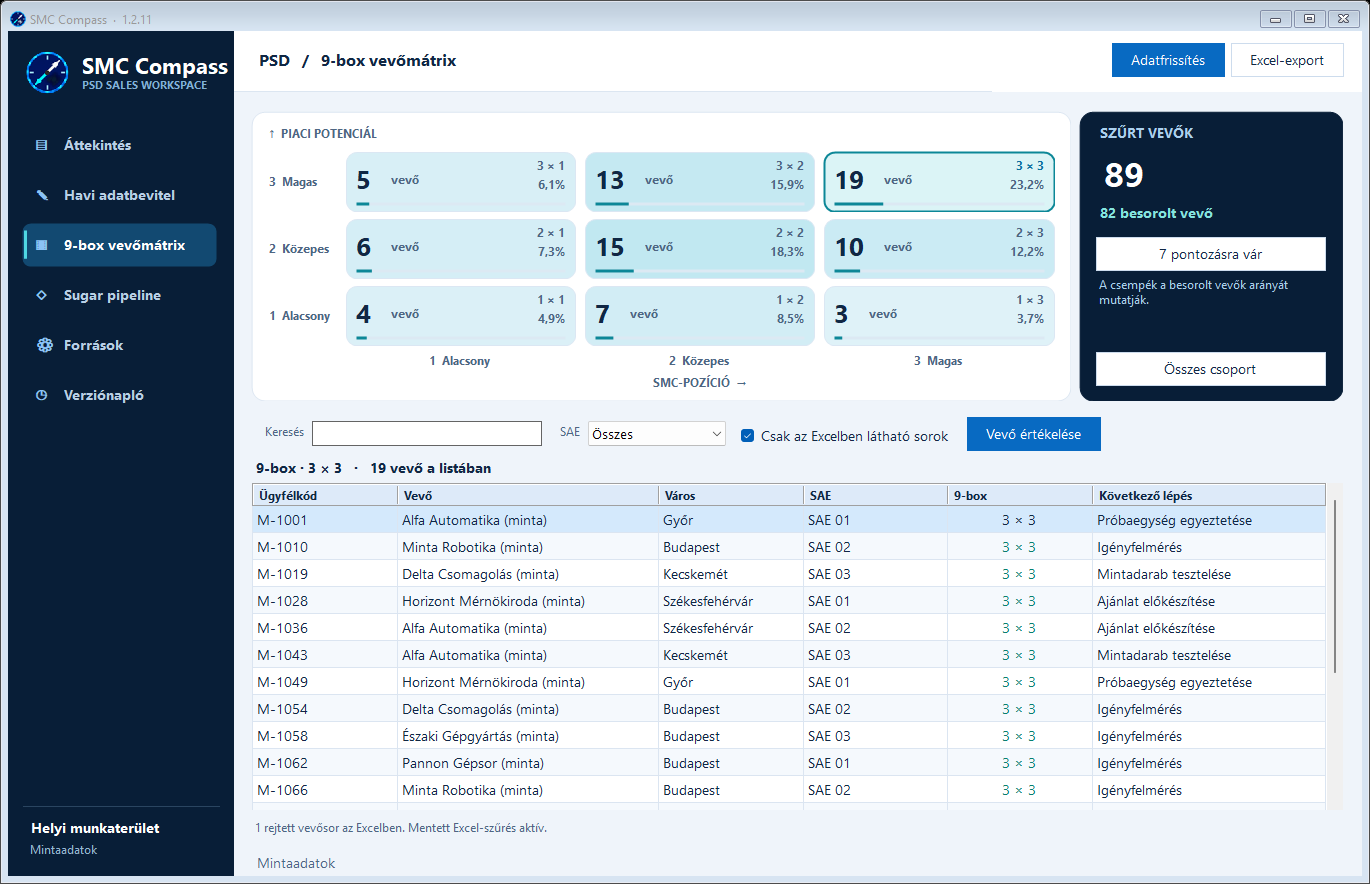
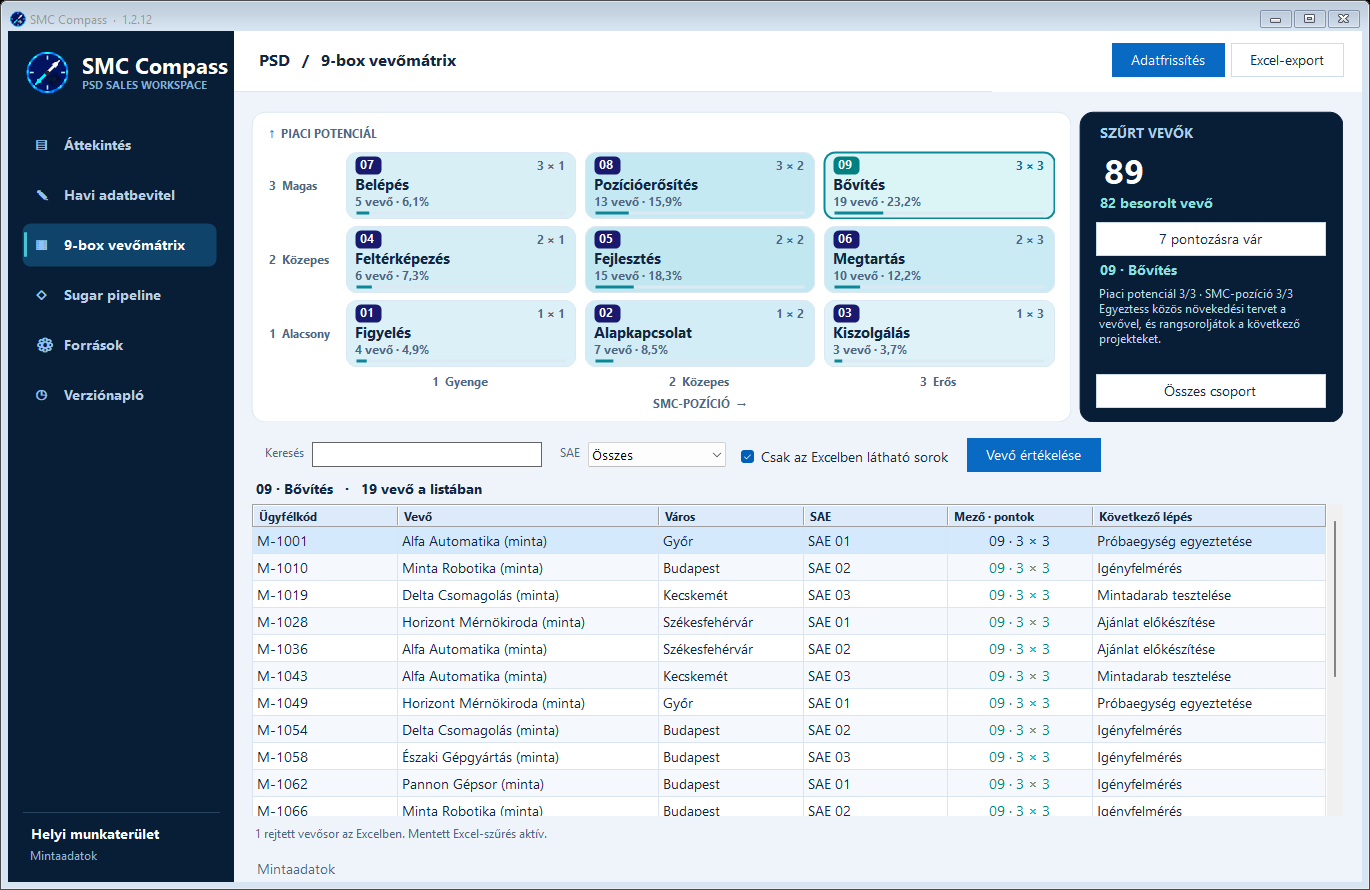
Name and number the 9-box segments and explain their sales actions

diff --git a/DesktopWindow.cs b/DesktopWindow.cs
@@ -39,6 +39,8 @@ internal sealed class DesktopWindow : Form
     private readonly Label matrixNote = Caption("",9,false);
     private readonly Label matrixTotal = Caption("",25,true);
     private readonly Label matrixRanked = Caption("",10,true);
+    private readonly Label matrixGuideTitle=Caption("",10,true);
+    private readonly Label matrixGuideNote=Caption("",9,false);
     private readonly Label matrixSelection = Caption("",10,true);
     private Button matrixReset, matrixUnrated;
     private const string UnratedCustomers = "unrated";
@@ -428,7 +430,7 @@ internal sealed class DesktopWindow : Form
 
     private void BuildMatrix(TabPage page)
     {
-        var layout=Frame(300,46,26,0,28);
+        var layout=Frame(321,46,26,0,28);
         page.Controls.Add(layout);
         var upper=new TableLayoutPanel { Dock=DockStyle.Fill, ColumnCount=2, RowCount=1, Margin=new Padding(2,3,3,7) };
         upper.ColumnStyles.Add(new ColumnStyle(SizeType.Percent,100));
@@ -451,11 +453,12 @@ internal sealed class DesktopWindow : Form
         board.Controls.Add(position,1,5);
         board.SetColumnSpan(position,3);
 
-        string[] levels={"Alacsony","Közepes","Magas"};
+        string[] potentialLevels={"Alacsony","Közepes","Magas"};
+        string[] positionLevels={"Gyenge","Közepes","Erős"};
         for(int i=0;i<3;i++)
         {
-            board.Controls.Add(MatrixAxis((3-i)+"  "+levels[2-i],ContentAlignment.MiddleLeft),0,i+1);
-            board.Controls.Add(MatrixAxis((i+1)+"  "+levels[i],ContentAlignment.MiddleCenter),i+1,4);
+            board.Controls.Add(MatrixAxis((3-i)+"  "+potentialLevels[2-i],ContentAlignment.MiddleLeft),0,i+1);
+            board.Controls.Add(MatrixAxis((i+1)+"  "+positionLevels[i],ContentAlignment.MiddleCenter),i+1,4);
         }
         for(int row=0;row<3;row++)for(int col=0;col<3;col++)
         {
@@ -468,7 +471,7 @@ internal sealed class DesktopWindow : Form
 
         var summary=new CardPanel { Dock=DockStyle.Fill, Fill=CompassStyle.Navy, Outline=CompassStyle.Navy,
             Padding=new Padding(14,12,14,10), Margin=new Padding(0) };
-        var facts=Frame(27,53,31,43,0,42);
+        var facts=Frame(24,46,26,41,26,0,41);
         facts.BackColor=CompassStyle.Navy;
         summary.Controls.Add(facts);
         var title=Caption("SZŰRT VEVŐK",10,true);
@@ -482,14 +485,16 @@ internal sealed class DesktopWindow : Form
         matrixUnrated.Dock=DockStyle.Top;
         matrixUnrated.Click+=(s,e)=>SelectMatrixBox(boxFilter==UnratedCustomers?"":UnratedCustomers);
         facts.Controls.Add(matrixUnrated,0,3);
-        var shareNote=Caption("A csempék a besorolt vevők arányát mutatják.",9,false);
-        shareNote.ForeColor=Color.FromArgb(171,208,239);
-        shareNote.AutoSize=false;shareNote.Dock=DockStyle.Fill;
-        facts.Controls.Add(shareNote,0,4);
+        matrixGuideTitle.ForeColor=Color.FromArgb(132,229,223);
+        matrixGuideTitle.AutoSize=false;matrixGuideTitle.Dock=DockStyle.Fill;
+        facts.Controls.Add(matrixGuideTitle,0,4);
+        matrixGuideNote.ForeColor=Color.FromArgb(190,219,242);
+        matrixGuideNote.AutoSize=false;matrixGuideNote.Dock=DockStyle.Fill;
+        facts.Controls.Add(matrixGuideNote,0,5);
         matrixReset=Button("Összes csoport",false);
         matrixReset.Dock=DockStyle.Top;
         matrixReset.Click+=(s,e)=>SelectMatrixBox("");
-        facts.Controls.Add(matrixReset,0,5);
+        facts.Controls.Add(matrixReset,0,6);
         upper.Controls.Add(summary,1,0);
         layout.Controls.Add(upper,0,0);
 
@@ -499,7 +504,7 @@ internal sealed class DesktopWindow : Form
         layout.Controls.Add(filter,0,1);
         matrixSelection.Dock=DockStyle.Fill;matrixSelection.TextAlign=ContentAlignment.MiddleLeft;
         layout.Controls.Add(matrixSelection,0,2);
-        Columns(buyers,"Ügyfélkód","Vevő","Város","SAE","9-box","Következő lépés");
+        Columns(buyers,"Ügyfélkód","Vevő","Város","SAE","Mező · pontok","Következő lépés");
         buyers.BorderStyle=BorderStyle.None;
         buyers.Columns[1].FillWeight=180;buyers.Columns[5].FillWeight=160;
         buyers.Columns[4].DefaultCellStyle.Alignment=DataGridViewContentAlignment.MiddleCenter;
@@ -838,14 +843,21 @@ internal sealed class DesktopWindow : Form
         foreach(var item in selected)
         {
             string key=MatrixKey(item);
-            bool inMatrix=boxes.ContainsKey(key);
+            MatrixTile tile;
+            bool inMatrix=boxes.TryGetValue(key,out tile);
             if(unrated?inMatrix:boxFilter.Length>0&&key!=boxFilter)continue;
-            string score=inMatrix?key.Replace("-"," × "):"—";
+            string score=inMatrix?tile.Number+" · "+tile.Coordinates:"—";
             int row=buyers.Rows.Add(Json.Text(item,"id"),Json.Text(item,"name")+(Json.Flag(item,"hidden")?"  [rejtett]":""),Json.Text(item,"city"),Json.Text(item,"owner"),score,Json.Text(item,"next"));
             buyers.Rows[row].Tag=item;
         }
-        string group=unrated?"Pontozásra vár":boxFilter.Length>0?"9-box · "+boxFilter.Replace("-"," × "):"Összes csoport";
+        MatrixTile selectedTile;
+        boxes.TryGetValue(boxFilter,out selectedTile);
+        string group=selectedTile!=null?selectedTile.Heading:unrated?"Pontozásra vár":"Összes csoport";
         matrixSelection.Text=group+"   ·   "+buyers.Rows.Count.ToString("N0",Hu)+" vevő a listában";
+        matrixGuideTitle.Text=selectedTile!=null?selectedTile.Heading:unrated?"Hiányzó értékelés":"A pontszámok jelentése";
+        matrixGuideNote.Text=selectedTile!=null?selectedTile.Scores+"\r\n"+selectedTile.Advice:
+            unrated?"A besoroláshoz a piaci potenciált és az SMC-pozíciót is értékeld.":
+            "Piaci potenciál: mekkora az üzleti lehetőség a vevőnél?\r\nSMC-pozíció: milyen erős most az SMC jelenléte?\r\nA % a besorolt vevők aránya.";
     }
 
     private async Task EditCustomer()

diff --git a/ModernStyle.cs b/ModernStyle.cs
@@ -409,18 +409,43 @@ internal sealed class MatrixTile : Button
     private static readonly Color Teal=Color.FromArgb(12,135,151);
     private readonly AnimationFrames frames;
     private readonly Stopwatch watch=new Stopwatch();
-    private readonly Font numberFont=new Font("Segoe UI",19,FontStyle.Bold);
+    private static readonly string[] Names={
+        "Figyelés","Alapkapcsolat","Kiszolgálás",
+        "Feltérképezés","Fejlesztés","Megtartás",
+        "Belépés","Pozícióerősítés","Bővítés"
+    };
+    private static readonly string[] Descriptions={
+        "Kövesd időnként a vevő változásait. Akkor keresd meg, ha új igény vagy projekt jelenik meg.",
+        "Tartsd fenn a meglévő kapcsolatot. A konkrét igényekre adj célzott választ.",
+        "Tartsd meg a meglévő forgalmat, és tedd egyszerűvé az ismétlődő rendelések kiszolgálását.",
+        "Térképezd fel a döntéshozókat és a belépésre alkalmas alkalmazásokat.",
+        "Válassz egy konkrét projektet, ahol próbaegységgel vagy műszaki támogatással léphetsz előre.",
+        "Védd a meglévő üzletet, és keresd a kapcsolódó alkalmazásokat a vevőn belül.",
+        "A nagy lehetőséghez keress első belépési projektet. Referenciával vagy próbaegységgel indíts.",
+        "Növeld az SMC részesedését további alkalmazásokban, üzletágakban vagy telephelyeken.",
+        "Egyeztess közös növekedési tervet a vevővel, és rangsoroljátok a következő projekteket."
+    };
+    private readonly Font titleFont=new Font("Segoe UI",11,FontStyle.Bold);
     private readonly Font detailFont=new Font("Segoe UI",9,FontStyle.Bold);
-    private readonly string coordinates;
-    private readonly string scores;
+
+    internal string Number { get; private set; }
+    internal string Title { get; private set; }
+    internal string Advice { get; private set; }
+    internal string Scores { get; private set; }
+    internal string Coordinates { get; private set; }
+    internal string Heading { get { return Number+" · "+Title; } }
     private int count, total;
     private double fill, from, target;
     private bool hot, selected;
 
     internal MatrixTile(int potential,int position)
     {
-        coordinates=potential+" × "+position;
-        scores="Piaci potenciál "+potential+", SMC-pozíció "+position;
+        int index=(potential-1)*3+position-1;
+        Number=(index+1).ToString("00");
+        Title=Names[index];
+        Advice=Descriptions[index];
+        Coordinates=potential+" × "+position;
+        Scores="Piaci potenciál "+potential+"/3 · SMC-pozíció "+position+"/3";
         Dock=DockStyle.Fill;
         Margin=new Padding(4,3,4,3);
         BackColor=Color.White;
@@ -439,8 +464,8 @@ internal sealed class MatrixTile : Button
     internal void Display(int count,int total,bool selected)
     {
         this.count=count;this.total=total;this.selected=selected;
-        AccessibleName=scores+" · "+count+" vevő";
-        AccessibleDescription=selected?"Aktív szűrés. Aktiválással törölhető.":"Aktiválással erre a mezőre szűr.";
+        AccessibleName=Heading+" · "+Scores+" · "+count+" vevő";
+        AccessibleDescription=Advice+" "+(selected?"Aktív szűrés. Aktiválással törölhető.":"Aktiválással erre a mezőre szűr.");
         double next=total>0?(double)count/total:0;
         if(!Visible||!IsHandleCreated||!CompassStyle.MotionEnabled)
         {
@@ -470,19 +495,24 @@ internal sealed class MatrixTile : Button
         {
             g.FillPath(surface,path);g.DrawPath(edge,path);
         }
-        int countWidth=TextRenderer.MeasureText(count.ToString(),numberFont,Size.Empty,TextFormatFlags.NoPadding).Width;
-        HeroPanel.Draw(g,count.ToString(),numberFont,DesktopWindow.Ink,new Rectangle(11,5,Width-69,Height-17));
-        if(Width>=countWidth+87)
-            HeroPanel.Draw(g,"vevő",detailFont,DesktopWindow.Muted,new Rectangle(16+countWidth,7,35,Height-17));
-        string share=total>0?(100.0*count/total).ToString("0.#")+"%":"0%";
-        DrawRight(g,coordinates,selected?Accent:DesktopWindow.Muted,new Rectangle(Width-66,5,55,19));
-        if(Height>=53)DrawRight(g,share,DesktopWindow.Muted,new Rectangle(Width-57,24,46,19));
+        using(var badge=CompassStyle.Round(new RectangleF(10,5,26,18),5))
+        {
+            g.FillPath(selected?Brushes.Teal:Brushes.MidnightBlue,badge);
+            HeroPanel.Draw(g,Number,detailFont,Color.White,new Rectangle(15,5,20,18));
+        }
+        HeroPanel.Draw(g,Title,titleFont,DesktopWindow.Ink,new Rectangle(10,22,Width-20,22));
+        DrawRight(g,Coordinates,selected?Accent:DesktopWindow.Muted,new Rectangle(Width-54,5,43,18));
+        if(Height>=61)
+        {
+            string share=total>0?(100.0*count/total).ToString("0.#")+"%":"0%";
+            HeroPanel.Draw(g,count+" vevő · "+share,detailFont,DesktopWindow.Muted,new Rectangle(10,43,Width-20,15));
+        }
         float width=Width-22;
         using(var rail=new SolidBrush(Color.FromArgb(220,233,243)))
         using(var bar=new SolidBrush(Teal))
         {
-            g.FillRectangle(rail,11,Height-10,width,3);
-            if(fill>0)g.FillRectangle(bar,11,Height-10,Math.Max(2,(float)(fill*width)),3);
+            g.FillRectangle(rail,11,Height-8,width,3);
+            if(fill>0)g.FillRectangle(bar,11,Height-8,Math.Max(2,(float)(fill*width)),3);
         }
     }
 
@@ -493,7 +523,7 @@ internal sealed class MatrixTile : Button
 
     protected override void Dispose(bool disposing)
     {
-        if(disposing){frames.Dispose();numberFont.Dispose();detailFont.Dispose();}
+        if(disposing){frames.Dispose();titleFont.Dispose();detailFont.Dispose();}
         base.Dispose(disposing);
     }
 }

diff --git a/tests/AnimationCheck.cs b/tests/AnimationCheck.cs
@@ -74,7 +74,7 @@ internal static class AnimationCheck
         using(var window=new Form { ClientSize=new Size(1240,760), ShowInTaskbar=false })
         {
             var hero=new HeroPanel { Bounds=new Rectangle(215,12,1000,145) };
-            var chart=new ForecastChart { Bounds=new Rectangle(215,280,1000,430) };
+            var chart=new ForecastChart { Bounds=new Rectangle(215,381,1000,352) };
             var card=new KpiCard("Tény YTD","↗") { Bounds=new Rectangle(215,169,255,100) };
             var nav=new NavButton("Áttekintés","▤") { Location=new Point(10,12) };
             var strip=new RefreshStrip();
@@ -82,7 +82,7 @@ internal static class AnimationCheck
             for(int i=0;i<matrix.Length;i++)
             {
                 matrix[i]=new MatrixTile(3-i/3,i%3+1) {
-                    Dock=DockStyle.None, Bounds=new Rectangle(490+(i%3)*245,163+(i/3)*38,228,36)
+                    Dock=DockStyle.None, Bounds=new Rectangle(490+(i%3)*245,163+(i/3)*70,228,66)
                 };
                 window.Controls.Add(matrix[i]);
             }

diff --git a/CHANGELOG.md b/CHANGELOG.md
@@ -1,5 +1,10 @@
 # SMC Compass · verziónapló
 
+## 1.2.12 · Egyértelműbb 9-box besorolások
+
+- A mezők 01-től 09-ig számozottak, rövid nevet kaptak, és a lista a mezőszám mellett mindkét pontszámot mutatja.
+- A két tengely értelmezését a jobb oldali panel magyarázza. Csempe kiválasztásakor itt jelenik meg az adott helyzethez javasolt értékesítési lépés.
+
 ## 1.2.11 · Megújult 9-box vevőmátrix
 
 - A csempék megjelenítik a darabszámot és a besorolt vevőkön belüli részarányt. A kitöltés és az aránysáv szűréskor animálva igazodik az adatokhoz.
